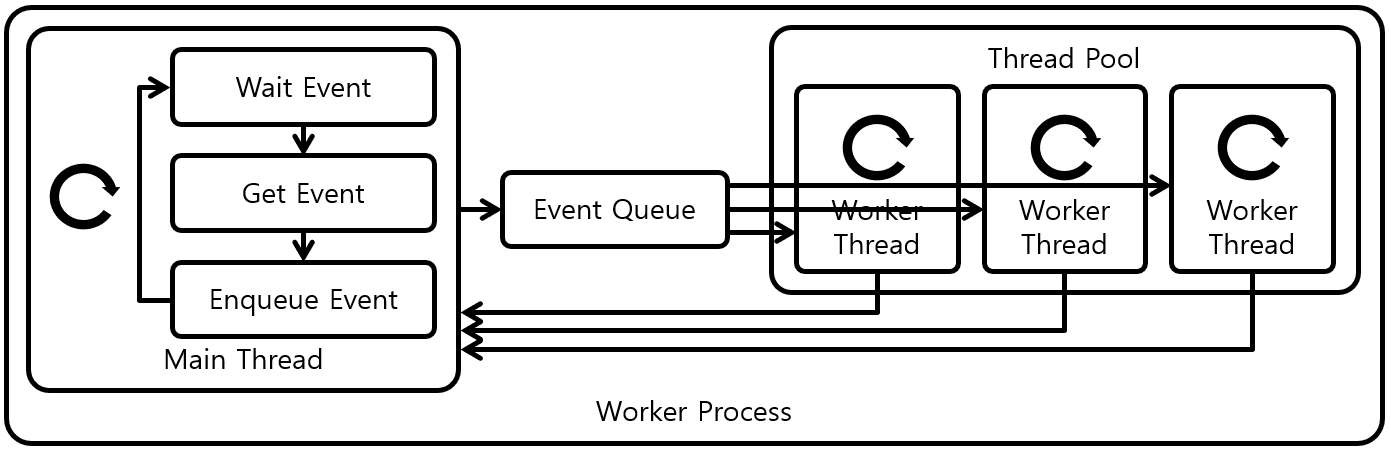
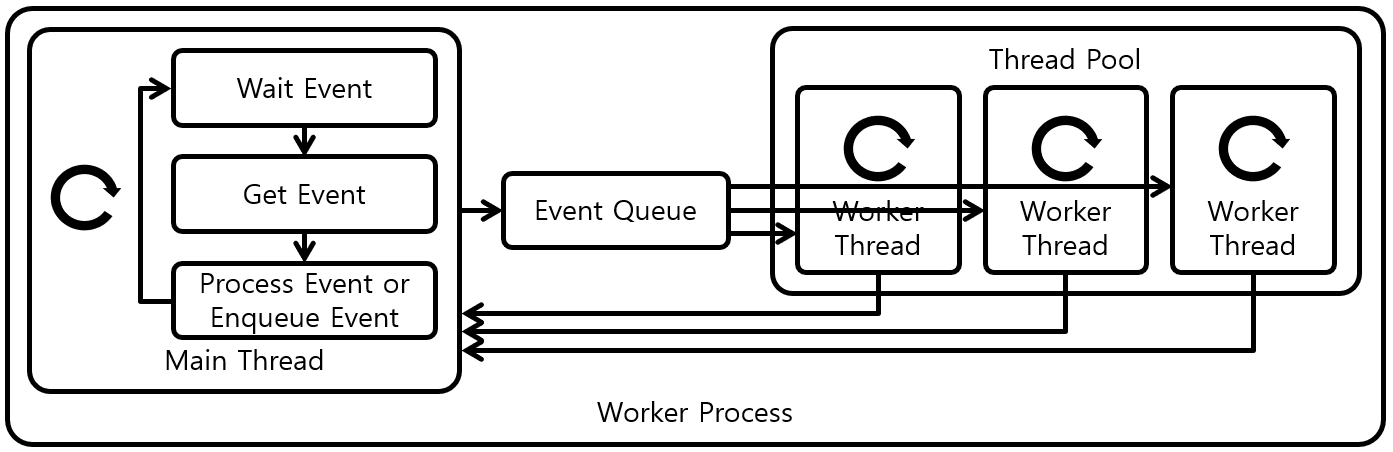
Update

diff --git a/_docs/theory_analysis/Nginx_Architecture.md b/_docs/theory_analysis/Nginx_Architecture.md
@@ -25,7 +25,7 @@ Worker Process는 실제 Client의 요청을 받아 처리하는 Process이다. 
 
 Apache HTTP Server와 같이 기존의 Web Server들은 Client와의 Connection을 담당하는 전용 Process/Thread를 생성해서 이용하는 방식을 이용했다. 이러한 방식은 Client와의 Connection이 증가할 수록 Process/Thread의 개수도 증가하게 되어 Memory 낭비, 과도한 Context Switching Overhead 문제를 발생시켰다. Nginx는 Async 방식을 이용하여 이러한 문제들을 해결하였고, 기존의 Web Server들에 비해서 더 좋은 성능을 보여준다.
 
-Worker Process는 단일 Thread 안에서만 요청을 처리하기 때문에 처리시간이 오래 걸리는 함수를 호출하면 Worker Process가 처리해야 하는 다른 요청들은 처리되지 못하고 대기해야하는 Blocking 문제가 발생한다. 주로 Disk 동작이 동반되는 File Read/Write 관련 함수의 경우 상황에 따라서 오랜 처리 시간이 발생할 수 있다. Nginx는 이러한 Blocking 문제를 해결하기 위해서 Kernel에서 제공하는 비동기 방식의 File Read/Write 함수를 이용한다. Nginx가 Linux에서 동작하는 경우 AIO(Asynchronous IO) 또는 sendfile() 함수를 이용하여 Blocking 문제를 해결한다.
+Worker Process는 단일 Thread 안에서만 요청을 처리하기 때문에 처리시간이 오래 걸리는 함수를 호출하면 Worker Process가 처리해야 하는 다른 요청들은 처리되지 못하고 대기해야하는 Blocking 문제가 발생한다. 주로 Disk 동작이 동반되는 File Read/Write 관련 함수의 경우 상황에 따라서 오랜 처리 시간이 발생할 수 있다. Nginx는 이러한 Blocking 문제를 해결하기 위해서 File Read/Write 동작을 별도의 Thread Pool에서 처리하는 Thread Pool 기법을 제공하고 있다.
 
 Master Process는 Worker Process에게 Client의 Connection(요청)을 분배하는 별도의 기법을 이용하지 않고 Kernel의 기능을 그대로 이용한다. 각 Worker Process들은 모든 Worker Process들이 공유하는 Listen Socket을 select(), epoll(), kqueue()와 같은 Mutiplexing 함수에 각자 등록하고 Mutiplexing 함수에서 대기한다. 이후 Client로부터 Connection 요청이 오면 Kernel은 Mutiplexing 함수에서 대기하는 Worker Process중에서 임의의 Worker Process를 깨워 Connection 요청을 처리하게 만든다. 
 
@@ -35,7 +35,7 @@ Master Process는 Worker Process에게 Client의 Connection(요청)을 분배하
 
 Nginx는 Backend로부터 전송되는 응답을 Cache에 저장한 다음, Client으로 부터 동일한 요청이 올경우 Cache에 저장되어 있는 Backend의 응답을 활용하는 Caching 기법을 이용하고 있다. Cache의 Key, Meta 정보는 Nginx의 모든 Process가 접근할 수 있는 Shared Memory에 저장되며, Cache의 Data는 File에 저장된다. 
 
-Cache의 Data는 File로 저장되더라도 Kernel이 제공하는 Filesystem Cache에 의해서 Disk뿐만 아니라 적절하게 Memory에도 저장되기 때문에, Nginx는 대부분 빠르게 Cache의 Data를 얻을 수 있다. 하지만 Cache의 Data가 Filesystem Cache에 존재하지 않고 Disk에만 존재하여 오랜 시간 걸릴수 있기 때문에 비동기 방식의 File Read/Write 함수를 이용한다. Linux의 경우 Filesystem Cache로 Page Cache를 제공하고 있다. Nginx가 Cache의 Data를 별도의 Memory에 저장하고 이용하지는 않는다.
+Cache의 Data는 File로 저장되더라도 Kernel이 제공하는 Filesystem Cache에 의해서 Disk뿐만 아니라 적절하게 Memory에도 저장되기 때문에, Nginx는 대부분 빠르게 Cache의 Data를 얻을 수 있다. 하지만 Cache의 Data가 Filesystem Cache에 존재하지 않고 Disk에만 존재하여 오랜 시간 걸릴수도 있다. 이러한 문제를 해결하는 방법중 하나는 위에서 언급한 Thread Pool 기법을 이용하는 것이다. Linux의 경우 Filesystem Cache로 Page Cache를 제공하고 있다. Nginx가 Cache의 Data를 별도의 Memory에 저장하고 이용하지는 않는다.
 
 Cache의 Data는 기본적으로 Cache의 크기 초과로 인해서 지워지지 않는 이상은 계속 남아있으면서 Nginx에 의해서 이용된다. Cache의 크기가 초과하는 경우 LRU(Least Recently Used) Algorithm에 의해서 가장 나중에 이용된 Cache의 Data부터 지워진다. 또는 일정 시간이 지나면 Cache가 Expiration되어 지워질 수 있도록 설정할 수도 있다. 이러한 Cache 크기 및 Expiration 관리는 Cache Manager Process가 주기적으로 수행한다. Cache의 크기 및 Cache의 Expiration 시간은 Config 파일을 통해서 설정할 수 있다.
 

diff --git a/_docs/theory_analysis/Nginx_Thread_Pool.md b/_docs/theory_analysis/Nginx_Thread_Pool.md
@@ -11,9 +11,19 @@ Nginx의 Thread Pool 기법을 분석한다.
 
 ### 1. Nginx Thread Pool
 
-![[그림 1] Nginx Worker Process without Thread Pool]({{site.baseurl}}/images/theory_analysis/Nginx_Thread_Pool/Nginx_Worker_Process_Without_Thread_Pool.PNG){: width="350px"}
+![[그림 1] Nginx Worker Process without Thread Pool]({{site.baseurl}}/images/theory_analysis/Nginx_Thread_Pool/Nginx_Worker_Process_Without_Thread_Pool.PNG){: width="300px"}
+
+Nginx의 Thread Pool 기법을 분석한다. [그림 1]은 Nginx의 Thread Pool 기법을 적용하지 않은, 기존의 Worker Process의 동작을 나타내고 있다. Nginx의 Worker Process는 Kernel이 제공하는 select(), epoll(), kqueue()와 같은 Multiplexing 함수를 이용하여 단일 Thread 안에서 Event Loop를 동작시킨다. Event Loop는 Event를 대기, 감시, 처리하는 과정을 반복한다.
+
+이러한 단일 Thread Event Loop 기법은 Process/Thread의 과도한 생성을 방지하여 Kernel Memory 절약, Context Switching Overhead 등의 성능적 이점을 가져다 준다. 하지만 Event 처리 시간이 길어져 단일 Thread를 점유하고 있으면 다른 Evnet 처리도 늦어지는 Blocking 현상이 발생하는 큰 문제점을 갖고 있다. 주로 Disk 동작이 동반되는 File Read/Write 동작의 경우, 상황에 따라서 오랜 시간 Thread를 점유하며 동작하기 때문에 Blocing 현상의 주요 원인이다. 또한 Nginx Third-party Module들의 처리 시간이 긴 함수들도 원인이 될 수 있다. 
+
+Nginx는 Backend의 응답을 File로 Caching하기 때문에 File Read/Write 동작이 매우 자주 발생한다. 동일한 요청이 자주온다면 Memory 기반의 Filesystem Cache를 통해서 Disk 접근은 최소화 되기 때문에, 빠른 File Read/Write 동작이 가능하다. 하지만 Video Streaming Data처럼 큰 Data Stream을 주고받는 경우에는 Filesystem Cache의 효과를 얻지 못하기 때문에, 대부분의 File Read/Write 동작은 Disk에 접근하게 되고 느려질수 밖에 없다. 이러한 Blocking 문제를 해결하기 위해서 Nginx의 Thread Pool 기법이 고안되었다.
 
 ![[그림 2] Nginx Worker Process with Thread Pool]({{site.baseurl}}/images/theory_analysis/Nginx_Thread_Pool/Nginx_Worker_Process_With_Thread_Pool.PNG)
+
+[그림 2]는 Thread Pool 기법을 적용한 Worker Process를 나타내고 있다. Event Loop가 동작하는 Main Thread에서는 Event를 직접처리 하거나, Event를 Event Queue에 넣는다. Event Queue에 들어간 Event는 Thread Pool의 Worker Thread들이 하나씩 가저가 처리하고, 처리가 완료되면 Main Loop에게 Event 처리 완료 메세지를 보낸다. 이러한 Thread Pool 기법에서는 하나의 Worker Thread가 Event 처리로 Blocking 되어도 나머지 Worker Thread에게는 영향을 주지 않기 때문에 Blocking 문제를 해결할 수 있다.
+
+현재 Nginx는 File Read/Write 동작만 Thread Pool의 Thread에서 처리하고, 나머지 Event들은 기존 그대로 Main Thread에서 처리하고 있다. Thread Pool안의 Thread 개수는 설정을 통해서 변경할 수 있다. Nginx의 Thread Pool 기법은 Nginx 1.7.11 이후 Version에서 이용할 수 있다.
 
 ### 2. 참조
 
